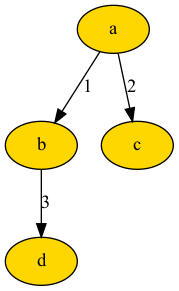
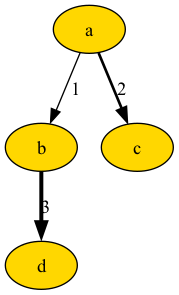
Changed: Example for sphinx examples for merging trees and weighted trees

diff --git a/docs/source/others/merging_trees.md b/docs/source/others/merging_trees.md
@@ -7,42 +7,44 @@ Children of node `b` from both trees are retained as long as `merge_children=Tru
 If only children of other tree is desired, set `overriding=True` instead.
 
 ```python
-from bigtree import Node, print_tree, copy_nodes_from_tree_to_tree
+from bigtree import Node, copy_nodes_from_tree_to_tree
 
 # Construct trees
-root1 = Node("a")
-b1 = Node("b", parent=root1)
-c1 = Node("c", parent=root1)
-d1 = Node("d", parent=b1)
+downloads_folder = Node("Downloads")
+pictures_folder = Node("Pictures", parent=downloads_folder)
+photo1 = Node("photo1.jpg", parent=pictures_folder)
+file1 = Node("file1.doc", parent=downloads_folder)
 
-b2 = Node("b")
-e2 = Node("e", parent=b2)
+documents_folder = Node("Documents")
+pictures_folder = Node("Pictures", parent=documents_folder)
+photo2 = Node("photo2.jpg", parent=pictures_folder)
 
 # Validate tree structure
-print_tree(root1)
-# a
-# ├── b
-# │   └── d
-# └── c
+downloads_folder.show()
+# Downloads
+# ├── Pictures
+# │   └── photo1.jpg
+# └── file1.doc
 
-print_tree(b2)
-# b
-# └── e
+documents_folder.show()
+# Documents
+# └── Pictures
+#     └── photo2.jpg
 
 # Merge trees
 copy_nodes_from_tree_to_tree(
-    from_tree=b2,
-    to_tree=root1,
-    from_paths=["b"],
-    to_paths=["a/b"],
+    from_tree=documents_folder,
+    to_tree=downloads_folder,
+    from_paths=["Documents/Pictures"],
+    to_paths=["Downloads/Pictures"],
     merge_children=True,  # set overriding=True to override existing children
 )
 
 # Validate tree structure
-print_tree(root1)
-# a
-# ├── b
-# │   ├── d
-# │   └── e
-# └── c
+downloads_folder.show()
+# Downloads
+# ├── Pictures
+# │   ├── photo1.jpg
+# │   └── photo2.jpg
+# └── file1.doc
 ```

diff --git a/docs/source/others/weighted_trees.md b/docs/source/others/weighted_trees.md
@@ -15,7 +15,10 @@ class WeightedNode(Node):
 
     @property
     def edge_attr(self):
-        return {"label": self.weight}
+        """Edge attribute for pydot diagram
+        Label for edge label, penwidth for edge width
+        """
+        return {"label": self.weight, "penwidth": self.weight}
 
 # Construct weighted tree
 root = WeightedNode("a")
